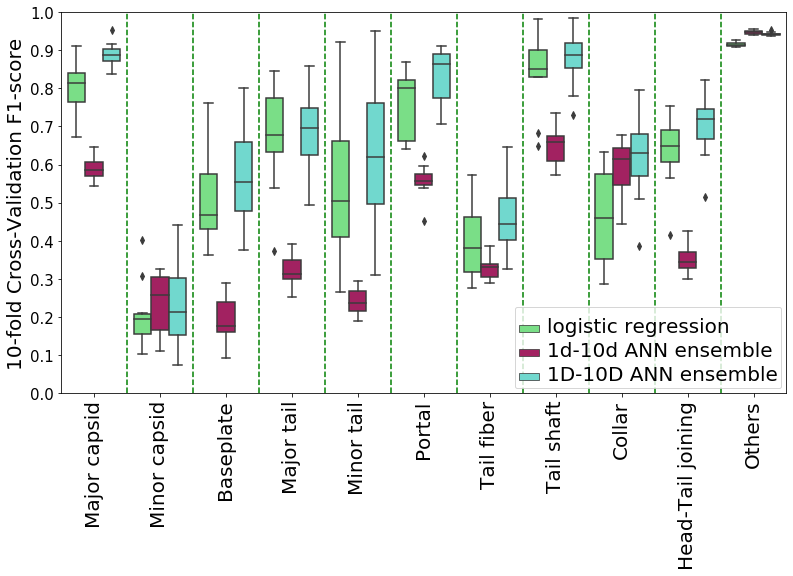
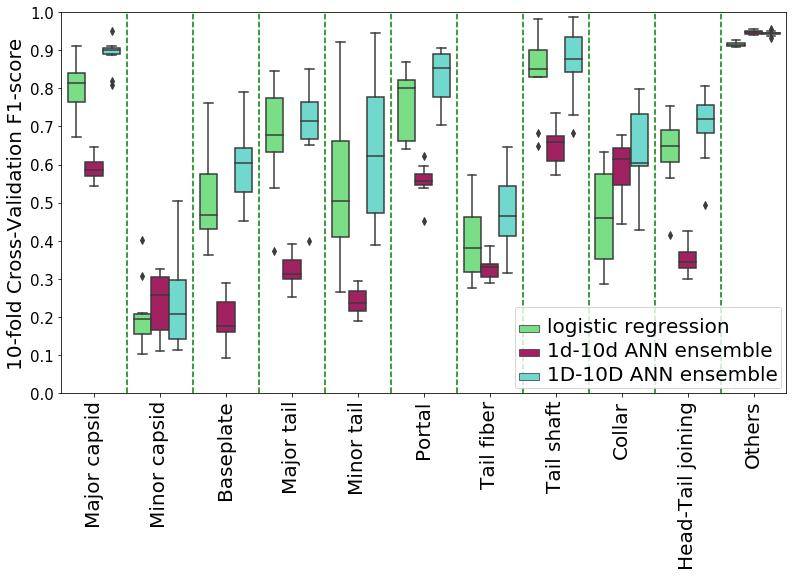
better figures

diff --git a/model_training/08_graph.py b/model_training/08_graph.py
@@ -14,6 +14,7 @@
 # ---
 
 # %%
+import PIL
 import pickle
 import pandas as pd
 import os
@@ -45,8 +46,13 @@ custom_dict = {'di_sc':0,'di_sc_p':1,'tri_sc':2,'tri_sc_p':3,'tetra_sc':4,'tetra
                'tri':8,'tri_p':9,'tetra_sc_tri_p':10,'all':11}
 
 # %%
+#labels_names=["Major capsid","Minor capsid","Baseplate","Major tail","Minor tail","Portal","Tail fiber",
+#             "Tail shaft","Collar","Head-Tail joining","Others"]
 labels_names=["Major capsid","Minor capsid","Baseplate","Major tail","Minor tail","Portal","Tail fiber",
-             "Tail shaft","Collar","Head-Tail joining","Others"]
+             "Tail sheath","Collar","Head-Tail joining","Others"]
+extra_labels=["Major capsid","Minor capsid","Baseplate","Major tail","Minor tail","Portal","Tail fiber",
+             "Tail sheath","Collar","Head-Tail joining","Others",'Weighted avg.']
+
 
 # %%
 from collections import Counter
@@ -62,28 +68,45 @@ avg_df=df[df['class'] == 'weighted avg']
 f1_df=df[df['score_type'] == 'f1-score']
 
 # %%
+#fm = mpl.font_manager
+#fm._fmcache
+from PIL import features
+from PIL import TiffImagePlugin
+print(features.check('libtiff'))
+#TiffImagePlugin.WRITE_LIBTIFF = True  
+
+# %%
+# Say, "the default sans-serif font is COMIC SANS"
+mpl.rcParams['font.sans-serif'] = "Arial"
+# Then, "ALWAYS use sans-serif fonts"
+mpl.rcParams['font.family'] = "sans-serif"
+
+# %%
+##figure 4
+
 fig, ax = plt.subplots()
 ax.yaxis.grid(True)
 #fig.set_size_inches(18, 15)
-fig.set_size_inches(8, 6)
+fig.set_size_inches(4, 4)
     
-ax.tick_params(axis='y',labelsize=24)
-ax.tick_params(axis='x',labelsize=24, rotation=80)
+ax.tick_params(axis='y',labelsize=10)
+ax.tick_params(axis='x',labelsize=10, rotation=80)
 #ax.set_title('Model metrics : ' + df , fontsize=30,va='bottom')
     #ax.set_title('')
-sns.barplot(ax=ax,y="value", x="model", hue="score_type", data=avg_df)
+sns.barplot(ax=ax,y="value", x="model", hue="score_type", data=avg_df,errwidth=1,capsize=0.15)
 #ax.set_ylabel('')    
 ax.set_xlabel('')
-ax.set_ylabel('Score',fontsize='27') 
-l = ax.legend()
-plt.setp(ax.get_legend().get_texts(), fontsize='18') # for legend text
+ax.set_ylabel('Score',fontsize='12') 
+handles, labels = ax.get_legend_handles_labels()
+l = ax.legend(handles,['Precision','Recall','F1-score'],loc='lower right')
+plt.setp(ax.get_legend().get_texts(), fontsize='11') # for legend text
 #print(dir(l))
 ax.set(ylim=(0.4, 1))
     
 #ax.set_xticklabels(['di','di_p','tri','tri_p','di_sc','di_sc_p','tri_sc','tri_sc_p','all'])
 plt.show()
 #fig.savefig('08_figures/avg_score_master.png',bbox_inches="tight")
-fig.savefig(os.path.join('08_figures','avg_score_master',stop_time),bbox_inches="tight")
+fig.savefig(os.path.join('08_figures','avg_score_master',stop_time+'.tif'),bbox_inches="tight",dpi=300)
 
 # %%
 for kk in all_models:
@@ -131,17 +154,18 @@ df_pp_mod=df[(df['score_type'] == 'f1-score') & [x not in ['di_sc','di_sc_p','tr
 
 # %%
 fig2, ax2 = plt.subplots()
-fig2.set_size_inches(15, 15)
+fig2.set_size_inches(6,4)
 
 sns.set(style="whitegrid")
-ax2.tick_params(axis='y',labelsize=30)
-ax2.tick_params(axis='x',labelsize=35,rotation=80)
-sns.barplot(ax=ax2,y="value", x="model", hue="class", data=df_sc_mod, palette=colors)
+ax2.tick_params(axis='y',labelsize=10)
+ax2.tick_params(axis='x',labelsize=10,rotation=80)
+sns.barplot(ax=ax2,y="value", x="model", hue="class", data=df_sc_mod, palette=colors,errwidth=1,capsize=0.03)
+            #err_kws={'elinewidth':10})
 
-ax2.set_ylabel('F1-score',fontsize='27')    
+ax2.set_ylabel('F1-score',fontsize='12')    
 ax2.set_xlabel('')
 l = ax2.legend()
-plt.setp(ax2.get_legend().get_texts(), fontsize='27') # for legend text
+#plt.setp(ax2.get_legend().get_texts(), fontsize='27') # for legend text
 
 handles2, labels2 = ax2.get_legend_handles_labels()
 
@@ -149,26 +173,27 @@ ax2.set(ylim=(0, 1))
 ax2.set(xlim=(-0.5, 5.5))
 plt.yticks(numpy.arange(0, 1.1, 0.1))
 #ax2.set_xticklabels(['di','di_p','tri','tri_p','di_sc','di_sc_p','tri_sc','tri_sc_p','all'])
-plt.legend(handles2,labels2,handlelength=2,fontsize=27,markerfirst=False,handletextpad=0.1,
+plt.legend(handles2,labels2,handlelength=2,fontsize=11,markerfirst=False,handletextpad=0.1,
            loc='upper right',bbox_to_anchor=(1.4, 1))
 plt.show()
-fig2.savefig(os.path.join('08_figures','f1_score_master_per_model_sc'),bbox_inches="tight")
+fig2.savefig(os.path.join('08_figures','f1_score_master_per_model_sc'),bbox_inches="tight",dpi=300)
 #fig2.savefig(os.path.join('08_figures','f1_score_master_per_model',stop_time),bbox_inches="tight")
 #fig2.savefig('08_figures/f1_score_master_per_model.png',bbox_inches="tight")
 
 # %%
+## figure 2
 fig2, ax2 = plt.subplots()
-fig2.set_size_inches(15, 15)
+fig2.set_size_inches(5, 4)
 
 sns.set(style="whitegrid")
-ax2.tick_params(axis='y',labelsize=30)
-ax2.tick_params(axis='x',labelsize=35,rotation=80)
-sns.barplot(ax=ax2,y="value", x="model", hue="class", data=df_pp_mod, palette=colors)
+ax2.tick_params(axis='y',labelsize=10)
+ax2.tick_params(axis='x',labelsize=10,rotation=80)
+sns.barplot(ax=ax2,y="value", x="model", hue="class", data=df_pp_mod, palette=colors,errwidth=1,capsize=0.03)
 
-ax2.set_ylabel('F1-score',fontsize='27')    
+ax2.set_ylabel('F1-score',fontsize='12')    
 ax2.set_xlabel('')
 l = ax2.legend()
-plt.setp(ax2.get_legend().get_texts(), fontsize='27') # for legend text
+#plt.setp(ax2.get_legend().get_texts(), fontsize='27') # for legend text
 
 handles2, labels2 = ax2.get_legend_handles_labels()
 
@@ -176,10 +201,13 @@ ax2.set(ylim=(0, 1))
 #ax2.set(xlim=(-0.5, 5.5))
 plt.yticks(numpy.arange(0, 1.1, 0.1))
 #ax2.set_xticklabels(['di','di_p','tri','tri_p','di_sc','di_sc_p','tri_sc','tri_sc_p','all'])
-plt.legend(handles2,labels2,handlelength=2,fontsize=27,markerfirst=False,handletextpad=0.1,
-           loc='upper right',bbox_to_anchor=(1.4, 1))
+#plt.legend(handles2,labels2,handlelength=2,fontsize=27,markerfirst=False,handletextpad=0.1,
+#           loc='upper right',bbox_to_anchor=(1.4, 1))
+plt.legend(handles2,extra_labels,handlelength=2,fontsize=11,markerfirst=False,handletextpad=0.1,
+           loc='upper right',bbox_to_anchor=(1.45, 1))
 plt.show()
-fig2.savefig(os.path.join('08_figures','f1_score_master_per_model_pp'),bbox_inches="tight")
+#fig2.savefig(os.path.join('08_figures','f1_score_master_per_model_pp'),bbox_inches="tight")
+fig2.savefig(os.path.join('08_figures','Fig2.tif'),bbox_inches="tight",dpi=300)
 #fig2.savefig(os.path.join('08_figures','f1_score_master_per_model',stop_time),bbox_inches="tight")
 #fig2.savefig('08_figures/f1_score_master_per_model.png',bbox_inches="tight")
 
@@ -210,28 +238,29 @@ fig2.savefig(os.path.join('08_figures','f1_score_master_per_class_sc'),bbox_inch
 plt.show()
 
 # %%
+##figure 3
 fig2, ax2 = plt.subplots()
-fig2.set_size_inches(15, 15)
+fig2.set_size_inches(5, 4)
 
 sns.set(style="whitegrid")
-ax2.tick_params(axis='y',labelsize=30)
-ax2.tick_params(axis='x',labelsize=35,rotation=80)
-sns.barplot(ax=ax2,y="value", x="class", hue="model", data=df_pp_mod, palette=colors)
+ax2.tick_params(axis='y',labelsize=10)
+ax2.tick_params(axis='x',labelsize=10,rotation=80)
+sns.barplot(ax=ax2,y="value", x="class", hue="model", data=df_pp_mod, palette=colors,errwidth=1,capsize=0.03)
 
-ax2.set_ylabel('F1-score',fontsize='27')    
+ax2.set_ylabel('F1-score',fontsize='12')    
 ax2.set_xlabel('')
 l = ax2.legend()
-plt.setp(ax2.get_legend().get_texts(), fontsize='27') # for legend text
+#plt.setp(ax2.get_legend().get_texts(), fontsize='27') # for legend text
 
 handles2, labels2 = ax2.get_legend_handles_labels()
 
 ax2.set(ylim=(0, 1))
 #ax2.set(xlim=(-0.5, 5.5))
 plt.yticks(numpy.arange(0, 1.1, 0.1))
-#ax2.set_xticklabels(['di','di_p','tri','tri_p','di_sc','di_sc_p','tri_sc','tri_sc_p','all'])
-plt.legend(handles2,labels2,handlelength=2,fontsize=27,markerfirst=False,handletextpad=0.1,
-           loc='upper right',bbox_to_anchor=(1.33, 1))
-fig2.savefig(os.path.join('08_figures','f1_score_master_per_class_pp'),bbox_inches="tight")
+ax2.set_xticklabels(extra_labels)
+plt.legend(handles2,labels2,handlelength=2,fontsize=11,markerfirst=False,handletextpad=0.1,
+           loc='upper right',bbox_to_anchor=(1.4, 1))
+fig2.savefig(os.path.join('08_figures','f1_score_master_per_class_pp.tif'),bbox_inches="tight",dpi=300)
 
 plt.show()
 
@@ -304,9 +333,9 @@ predicted_Y=numpy.sum(yhats_v, axis=0)
 predicted_Y_index = numpy.argmax(predicted_Y, axis=1)
 
 # %%
-pickle.dump(predicted_Y_index, open( os.path.join('08_figures','CM',"CM_predicted_test_Y_index_{}.p".format(stop_time)), "wb" ) )
-pickle.dump(predicted_Y, open( os.path.join('08_figures','CM',"CM_predicted_test_Y_{}.p".format(stop_time)), "wb" ) )
-pickle.dump(test_Y, open( os.path.join('08_figures','CM',"CM_test_Y_{}.p".format(stop_time)), "wb" ) )
+#pickle.dump(predicted_Y_index, open( os.path.join('08_figures','CM',"CM_predicted_test_Y_index_{}.p".format(stop_time)), "wb" ) )
+#pickle.dump(predicted_Y, open( os.path.join('08_figures','CM',"CM_predicted_test_Y_{}.p".format(stop_time)), "wb" ) )
+#pickle.dump(test_Y, open( os.path.join('08_figures','CM',"CM_test_Y_{}.p".format(stop_time)), "wb" ) )
 
 # %%
 #predicted_Y_index=pickle.load(open( os.path.join('08_figures','CM',"CM_predicted_test_Y_index_{}.p".format(stop_time)), "rb" ))
@@ -315,8 +344,8 @@ pickle.dump(test_Y, open( os.path.join('08_figures','CM',"CM_test_Y_{}.p".format
 
 # %%
 from sklearn.metrics import classification_report
-labels_names=["Major capsid","Minor capsid","Baseplate","Major tail","Minor tail","Portal","Tail fiber",
-             "Tail shaft","Collar","Head-Tail joining","Others"]
+#labels_names=["Major capsid","Minor capsid","Baseplate","Major tail","Minor tail","Portal","Tail fiber",
+#             "Tail shaft","Collar","Head-Tail joining","Others"]
 print(classification_report(test_Y, predicted_Y_index, target_names=labels_names ))
 
 # %%
@@ -324,9 +353,10 @@ zz=Counter(test_Y)
 sample_w=[zz[i] for i in range(0,11,1)]
 CM=confusion_matrix(test_Y, predicted_Y_index)
 CM_n=CM/numpy.array(sample_w)[:,None]
-scale_up=1.4
+scale_up=1
 
 # %%
+
 plt.viridis()
 #plt.grid(b=None)
 plt.figure(figsize=[6.4*scale_up, 4.8*scale_up])
@@ -335,17 +365,17 @@ plt.imshow(CM_n, interpolation='nearest')
 #plt.colorbar()
 plt.grid(b=None)
 tick_marks = numpy.arange(len(labels_names))
-plt.xticks(tick_marks, labels_names, rotation=90,fontsize='15')
-plt.yticks(tick_marks, labels_names,fontsize='15')
+plt.xticks(tick_marks, labels_names, rotation=90,fontsize='10')
+plt.yticks(tick_marks, labels_names,fontsize='10')
 fmt = '.2f'
 for i, j in itertools.product(range(CM_n.shape[0]), range(CM_n.shape[1])):
-    plt.text(j, i, format(CM_n[i, j], fmt),horizontalalignment="center",verticalalignment='center',
+    plt.text(j, i, format(CM_n[i, j], fmt),horizontalalignment="center",verticalalignment='center',fontsize=10,
     color="white" if CM_n[i, j] < 0.50 else "black")
-plt.ylabel('True Class',fontsize='20')
-plt.xlabel('Predicted Class',fontsize='20')
+plt.ylabel('True Class',fontsize='12')
+plt.xlabel('Predicted Class',fontsize='12')
 plt.clim(0,1)
 #plt.savefig('08_figures/tetra_sc_tri_p_CM.png',bbox_inches="tight")
-plt.savefig(os.path.join('08_figures','CM',stop_time),bbox_inches="tight")
+plt.savefig(os.path.join('08_figures','CM',stop_time+'.tif'),bbox_inches="tight",dpi=300)
 plt.show()
 
 
@@ -547,8 +577,8 @@ ax.set_aspect(10)
 predicted_Y_index[predicted_Y.max(axis = 1) > 5].shape
 
 # %%
-labels_names=["Major capsid","Minor capsid","Baseplate","Major tail","Minor tail","Portal","Tail fiber",
-                "Tail shaft","Collar","Head-Tail joining","Others"]
+#labels_names=["Major capsid","Minor capsid","Baseplate","Major tail","Minor tail","Portal","Tail fiber",
+#                "Tail shaft","Collar","Head-Tail joining","Others"]
 #exclude_d = {'precision': [], 'recall': [],'f1-score':[],'accuracy':[],'Portion excluded':[],'threshold':[]}
 exclude_d = {'score_type':[],'value':[],'threshold':[]}
 total_test =test_Y.shape[0]
@@ -592,8 +622,8 @@ ax.set(ylim=(-0.03, 1.03))
 ax.set_aspect(10)
 
 # %%
-labels_names=["Major capsid","Minor capsid","Baseplate","Major tail","Minor tail","Portal","Tail fiber",
-                "Tail shaft","Collar","Head-Tail joining","Others"]
+#labels_names=["Major capsid","Minor capsid","Baseplate","Major tail","Minor tail","Portal","Tail fiber",
+#                "Tail shaft","Collar","Head-Tail joining","Others"]
 #exclude_d = {'precision': [], 'recall': [],'f1-score':[],'accuracy':[],'Portion excluded':[],'threshold':[]}
 exclude_d = {'score_type':[],'value':[],'threshold':[]}
 total_test =test_Y.shape[0]
@@ -617,19 +647,20 @@ for score in [1,2,3,4,5,6,7,8,9,10]:
 
 
 # %%
+##figure7 creo necesita training loss?
 fig, ax = plt.subplots()
 ax.yaxis.grid(True)
 #fig.set_size_inches(18, 15)
-fig.set_size_inches(8, 6)
+fig.set_size_inches(4, 3)
     
-ax.tick_params(axis='y',labelsize=24)
-ax.tick_params(axis='x',labelsize=24)
+ax.tick_params(axis='y',labelsize=10)
+ax.tick_params(axis='x',labelsize=10)
 #ax.set_title('Model metrics : ' + df , fontsize=30,va='bottom')
     #ax.set_title('')
 sns.barplot(ax=ax,y="value", x="threshold", hue="score_type", data=df_exclude2)
 #ax.set_ylabel('')    
-ax.set_xlabel('PhANNs Score',fontsize='20')
-ax.set_ylabel('Sub-set Score',fontsize='20') 
+ax.set_xlabel('PhANNs Score',fontsize='12')
+ax.set_ylabel('Sub-set Score',fontsize='12') 
 l = ax.legend()
 #plt.setp(ax.get_legend().get_texts(), fontsize='18') # for legend text
 #print(dir(l))
@@ -637,10 +668,10 @@ ax.set(ylim=(0, 1))
     
 ax.set_xticklabels(['1','2','3','4','5','6','7','8','9','10'])
 handles3, labels3 = ax.get_legend_handles_labels()
-plt.legend(handles3,labels3,handlelength=2,fontsize=18,markerfirst=False,handletextpad=0.1,
-           loc='upper right',bbox_to_anchor=(1.5, 1))
+plt.legend(handles3,labels3,handlelength=2,fontsize=11,markerfirst=False,handletextpad=0.1,
+           loc='lower left')
 plt.show()
-fig.savefig('08_figures/exclude_by_score.png',bbox_inches="tight")
+fig.savefig('08_figures/exclude_by_score.tif',bbox_inches="tight",dpi=300)
 #fig.savefig(os.path.join('08_figures','avg_score_master',stop_time),bbox_inches="tight")
 
 # %%

diff --git a/model_training/09_logistic.py b/model_training/09_logistic.py
@@ -105,8 +105,8 @@ for model_name in all_models:
 df
 
 # %%
-pickle.dump(df, open( open( os.path.join('09_logistic_models','log_kfold_df.p'),'rb') )
-#df=pickle.load(open( os.path.join('09_logistic_models','log_kfold_df.p'),'rb'))
+#pickle.dump(df, open( open( os.path.join('09_logistic_models','log_kfold_df.p'),'rb') )
+df=pickle.load(open( os.path.join('09_logistic_models','log_kfold_df.p'),'rb'))
 
 # %%
 df_un=pickle.load(open( os.path.join('07_models','all_results_df.p'),'rb'))
@@ -165,6 +165,18 @@ fig3.savefig(os.path.join('09_logistic_models','derep_per_model.png'),bbox_inche
 plt.show()
 
 # %%
+kk1=df_si_f1[df_si_f1['model']=='tetra_sc_tri_p']
+
+
+# %%
+kk1
+
+# %%
+print(kk1[kk1['Model']=='logistic regression']['F1-score'].mean())
+print(kk1[kk1['Model']=='1D-10D ANN ensemble']['F1-score'].mean())
+print(kk1[kk1['Model']=='1d-10d ANN ensemble']['F1-score'].mean())
+
+# %%
 xx='tetra_sc_tri_p'
 ddd = {'class': [],'Model':[],'F1-score':[]}
 df_class_f1 = pd.DataFrame(data=ddd)
@@ -204,3 +216,5 @@ plt.setp(ax4.get_legend().get_title(),fontsize='0',text='')
 plt.setp(ax4.get_legend().get_texts(), fontsize='20')
 fig4.savefig(os.path.join('09_logistic_models','derep_per_class.png'),bbox_inches="tight")
 plt.show()
+
+# %%
